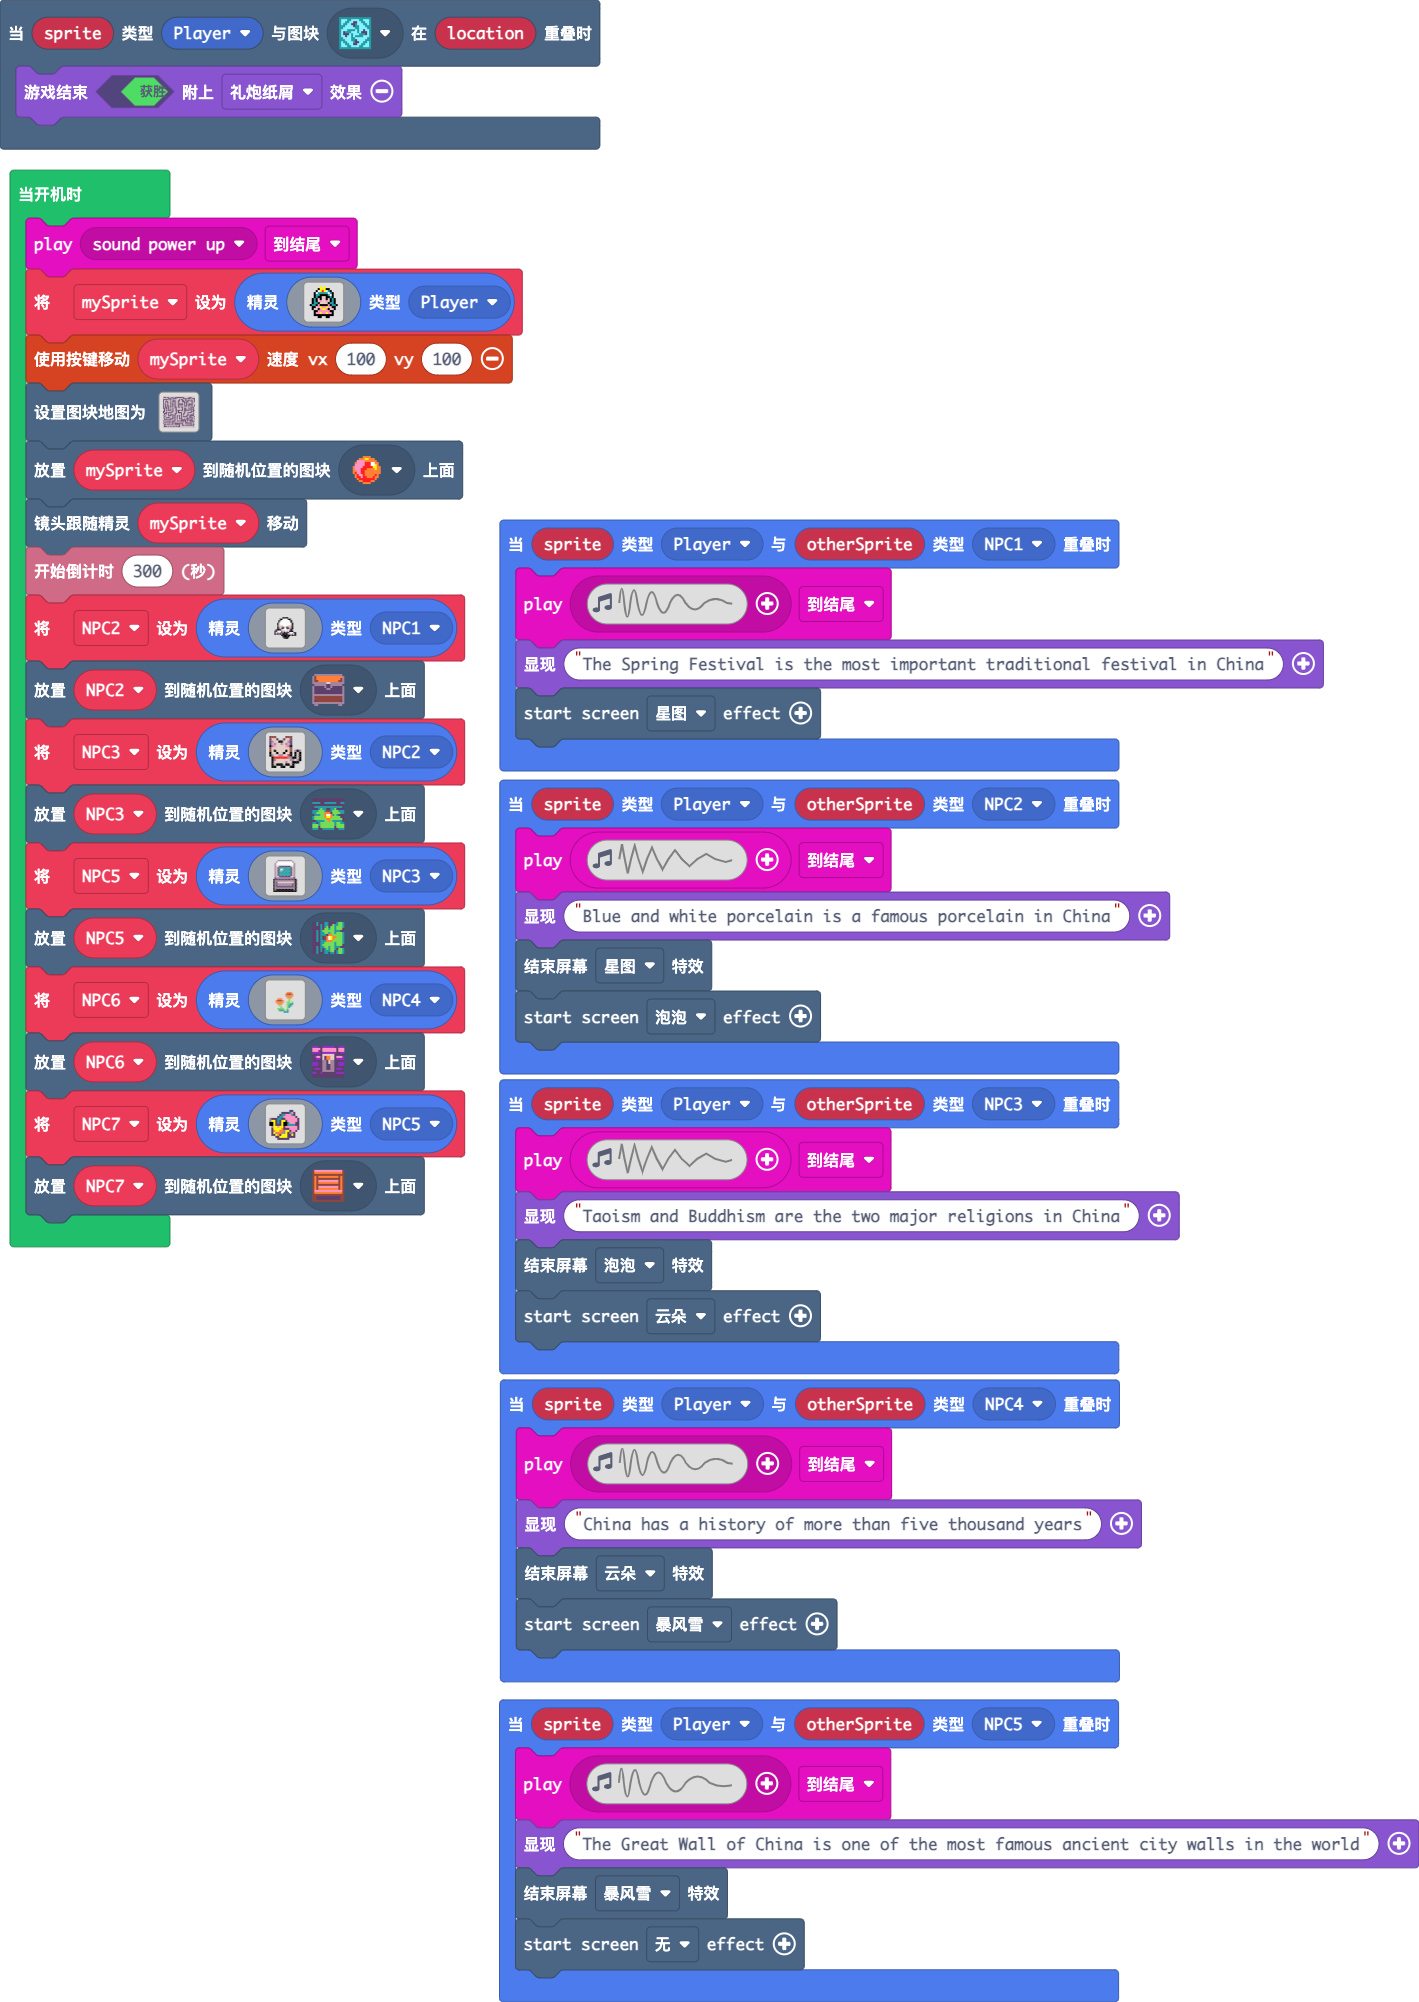
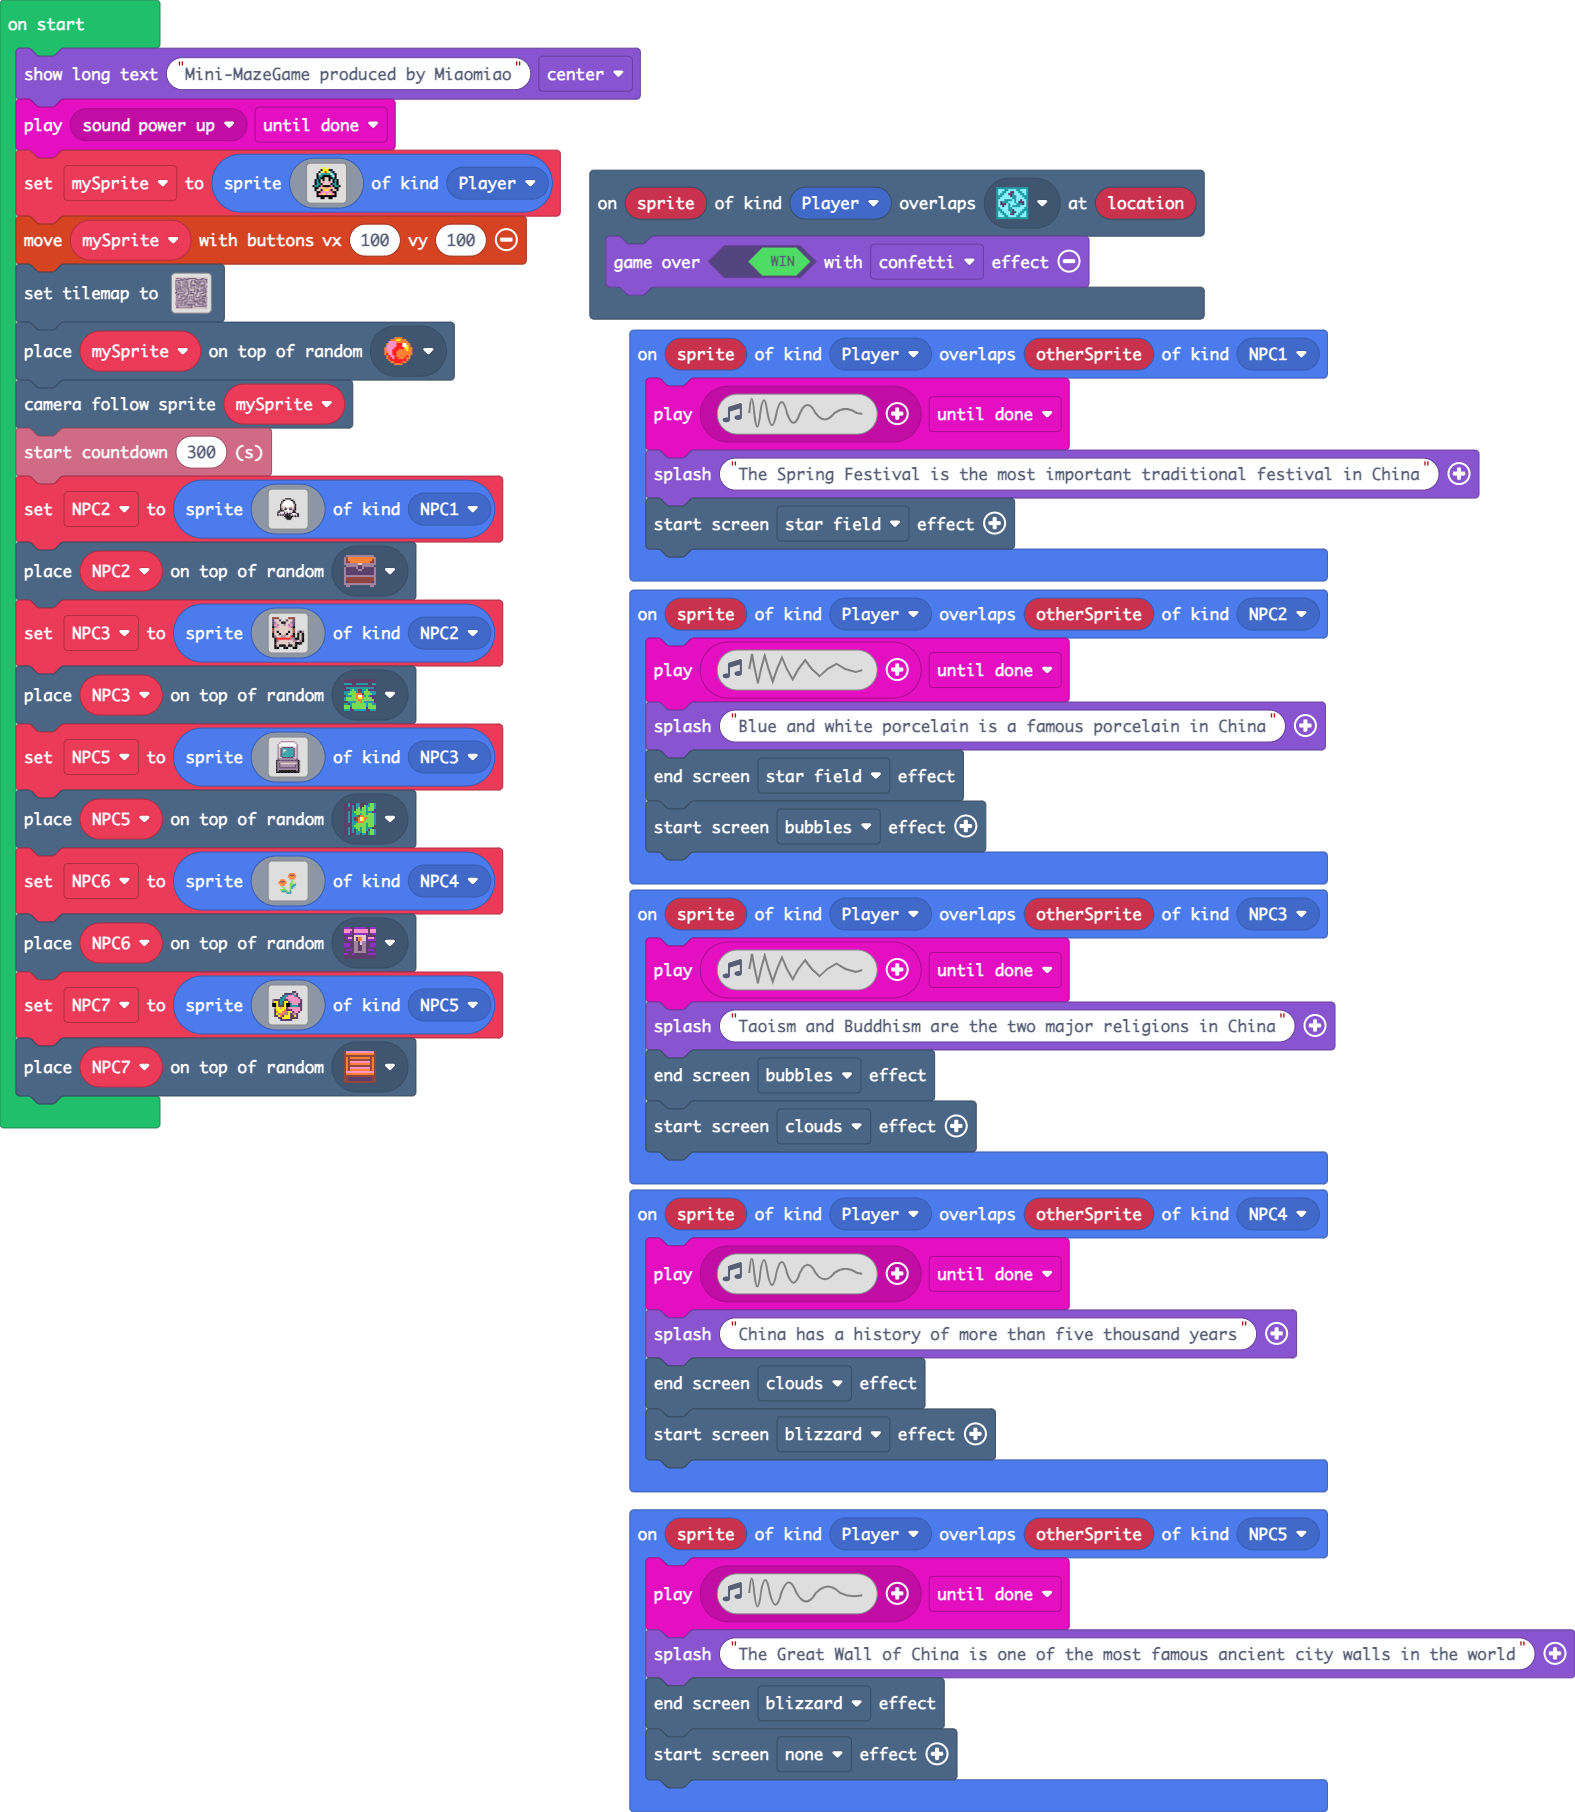
Update main.blocks, main.ts, tilemap.g.jres, tilemap.g.ts

diff --git a/tilemap.g.ts b/tilemap.g.ts
@@ -1,4 +1,4 @@
-// 自动生成的代码。请勿编辑。
+// Auto-generated code. Do not edit.
 namespace myTiles {
     //% fixedInstance jres blockIdentity=images._tile
     export const transparency16 = image.ofBuffer(hex``);
@@ -137,6 +137,44 @@ namespace myTiles {
 . . . . . . . . . . . . . . . . 
 . . . . . . . . . . . . . . . . 
 `, [myTiles.transparency16], TileScale.Sixteen);
+            case "级别5":
+            case "级别5":return tiles.createTilemap(hex`1000100000000000000000000000000000000000000000000000000000000000000000000000000000000000000000000000000000000000000000000000000000000000000000000000000000000000000000000000000000000000000000000000000000000000000000000000000000000000000000000000000000000000000000000000000000000000000000000000000000000000000000000000000000000000000000000000000000000000000000000000000000000000000000000000000000000000000000000000000000000000000000000000000000000000000000000000000000000000000000000000000000000000000000000000000000000000`, img`
+. . . . . . . . . . . . . . . . 
+. . . . . . . . . . . . . . . . 
+. . . . . . . . . . . . . . . . 
+. . . . . . . . . . . . . . . . 
+. . . . . . . . . . . . . . . . 
+. . . . . . . . . . . . . . . . 
+. . . . . . . . . . . . . . . . 
+. . . . . . . . . . . . . . . . 
+. . . . . . . . . . . . . . . . 
+. . . . . . . . . . . . . . . . 
+. . . . . . . . . . . . . . . . 
+. . . . . . . . . . . . . . . . 
+. . . . . . . . . . . . . . . . 
+. . . . . . . . . . . . . . . . 
+. . . . . . . . . . . . . . . . 
+. . . . . . . . . . . . . . . . 
+`, [myTiles.transparency16], TileScale.Sixteen);
+            case "级别6":
+            case "级别6":return tiles.createTilemap(hex`1000100000000000000000000000000000000000000000000000000000000000000000000000000000000000000000000000000000000000000000000000000000000000000000000000000000000000000000000000000000000000000000000000000000000000000000000000000000000000000000000000000000000000000000000000000000000000000000000000000000000000000000000000000000000000000000000000000000000000000000000000000000000000000000000000000000000000000000000000000000000000000000000000000000000000000000000000000000000000000000000000000000000000000000000000000000000000`, img`
+. . . . . . . . . . . . . . . . 
+. . . . . . . . . . . . . . . . 
+. . . . . . . . . . . . . . . . 
+. . . . . . . . . . . . . . . . 
+. . . . . . . . . . . . . . . . 
+. . . . . . . . . . . . . . . . 
+. . . . . . . . . . . . . . . . 
+. . . . . . . . . . . . . . . . 
+. . . . . . . . . . . . . . . . 
+. . . . . . . . . . . . . . . . 
+. . . . . . . . . . . . . . . . 
+. . . . . . . . . . . . . . . . 
+. . . . . . . . . . . . . . . . 
+. . . . . . . . . . . . . . . . 
+. . . . . . . . . . . . . . . . 
+. . . . . . . . . . . . . . . . 
+`, [myTiles.transparency16], TileScale.Sixteen);
         }
         return null;
     })
@@ -149,4 +187,4 @@ namespace myTiles {
     })
 
 }
-// 自动生成的代码。请勿编辑。
+// Auto-generated code. Do not edit.

diff --git a/main.ts b/main.ts
@@ -37,6 +37,7 @@ sprites.onOverlap(SpriteKind.Player, SpriteKind.NPC1, function (sprite, otherSpr
 scene.onOverlapTile(SpriteKind.Player, sprites.dungeon.collectibleInsignia, function (sprite, location) {
     game.over(true, effects.confetti)
 })
+game.showLongText("Mini-MazeGame produced by Miaomiao", DialogLayout.Center)
 music.play(music.melodyPlayable(music.powerUp), music.PlaybackMode.UntilDone)
 let mySprite = sprites.create(img`
     . . . . . . 5 . 5 . . . . . . . 
